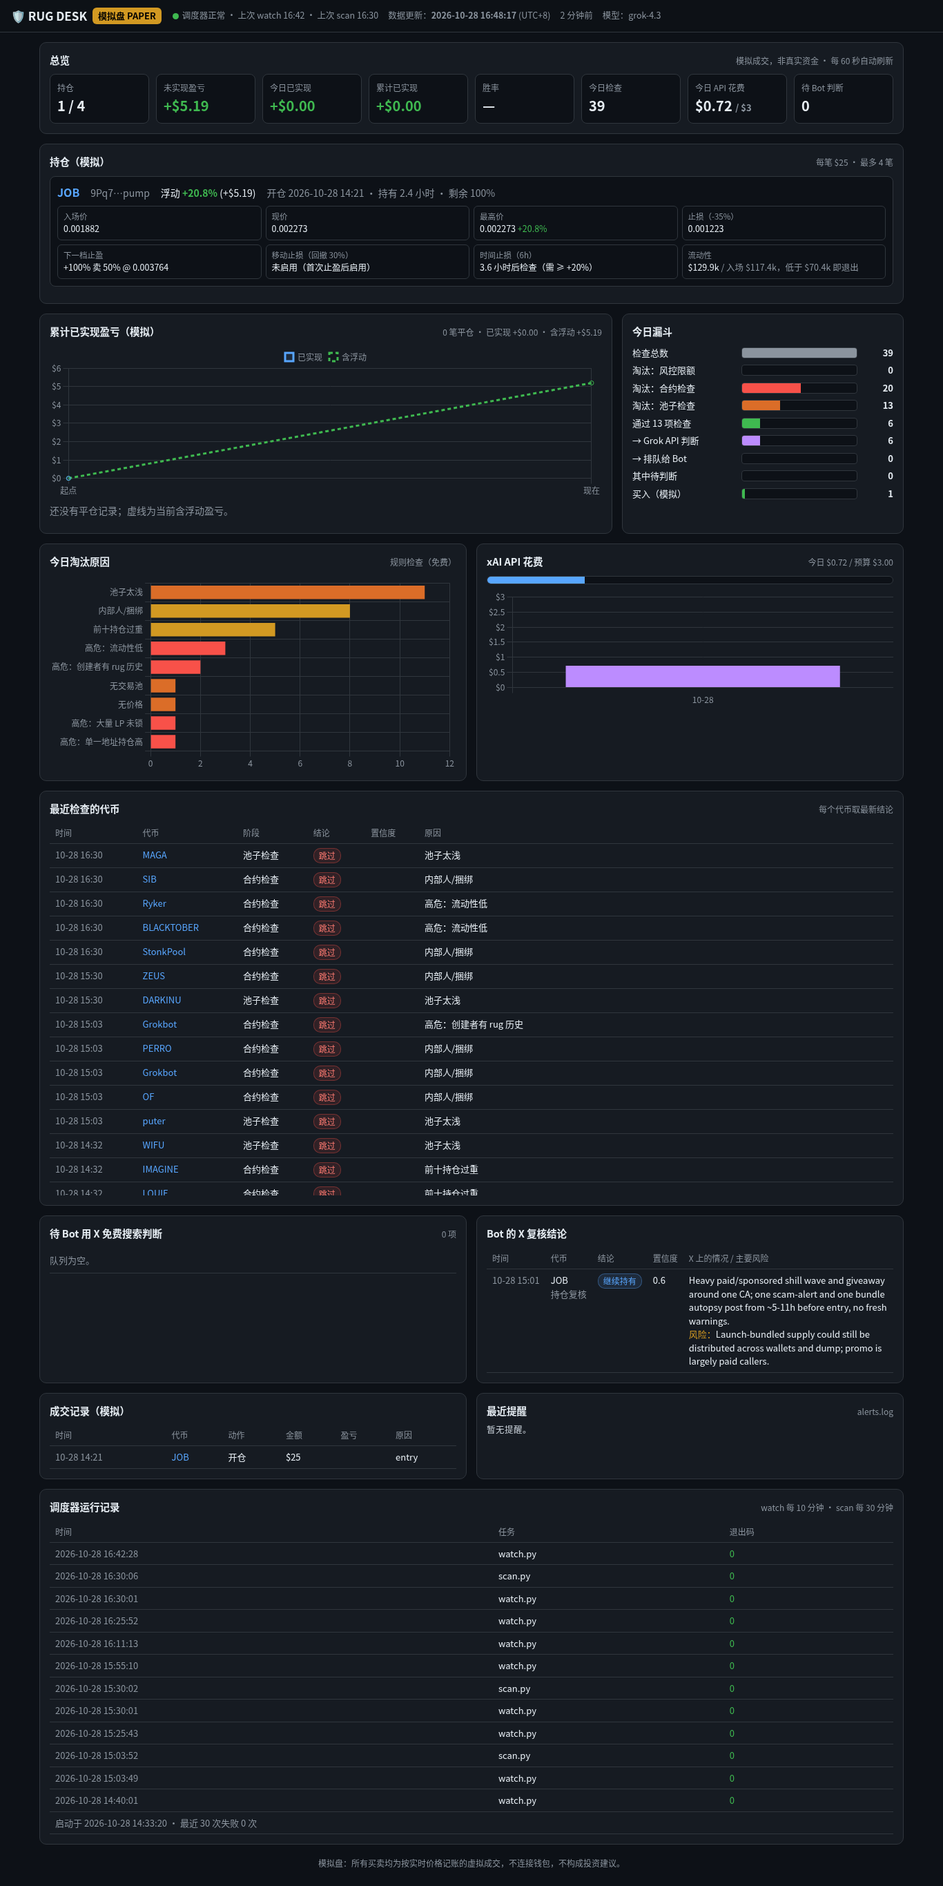
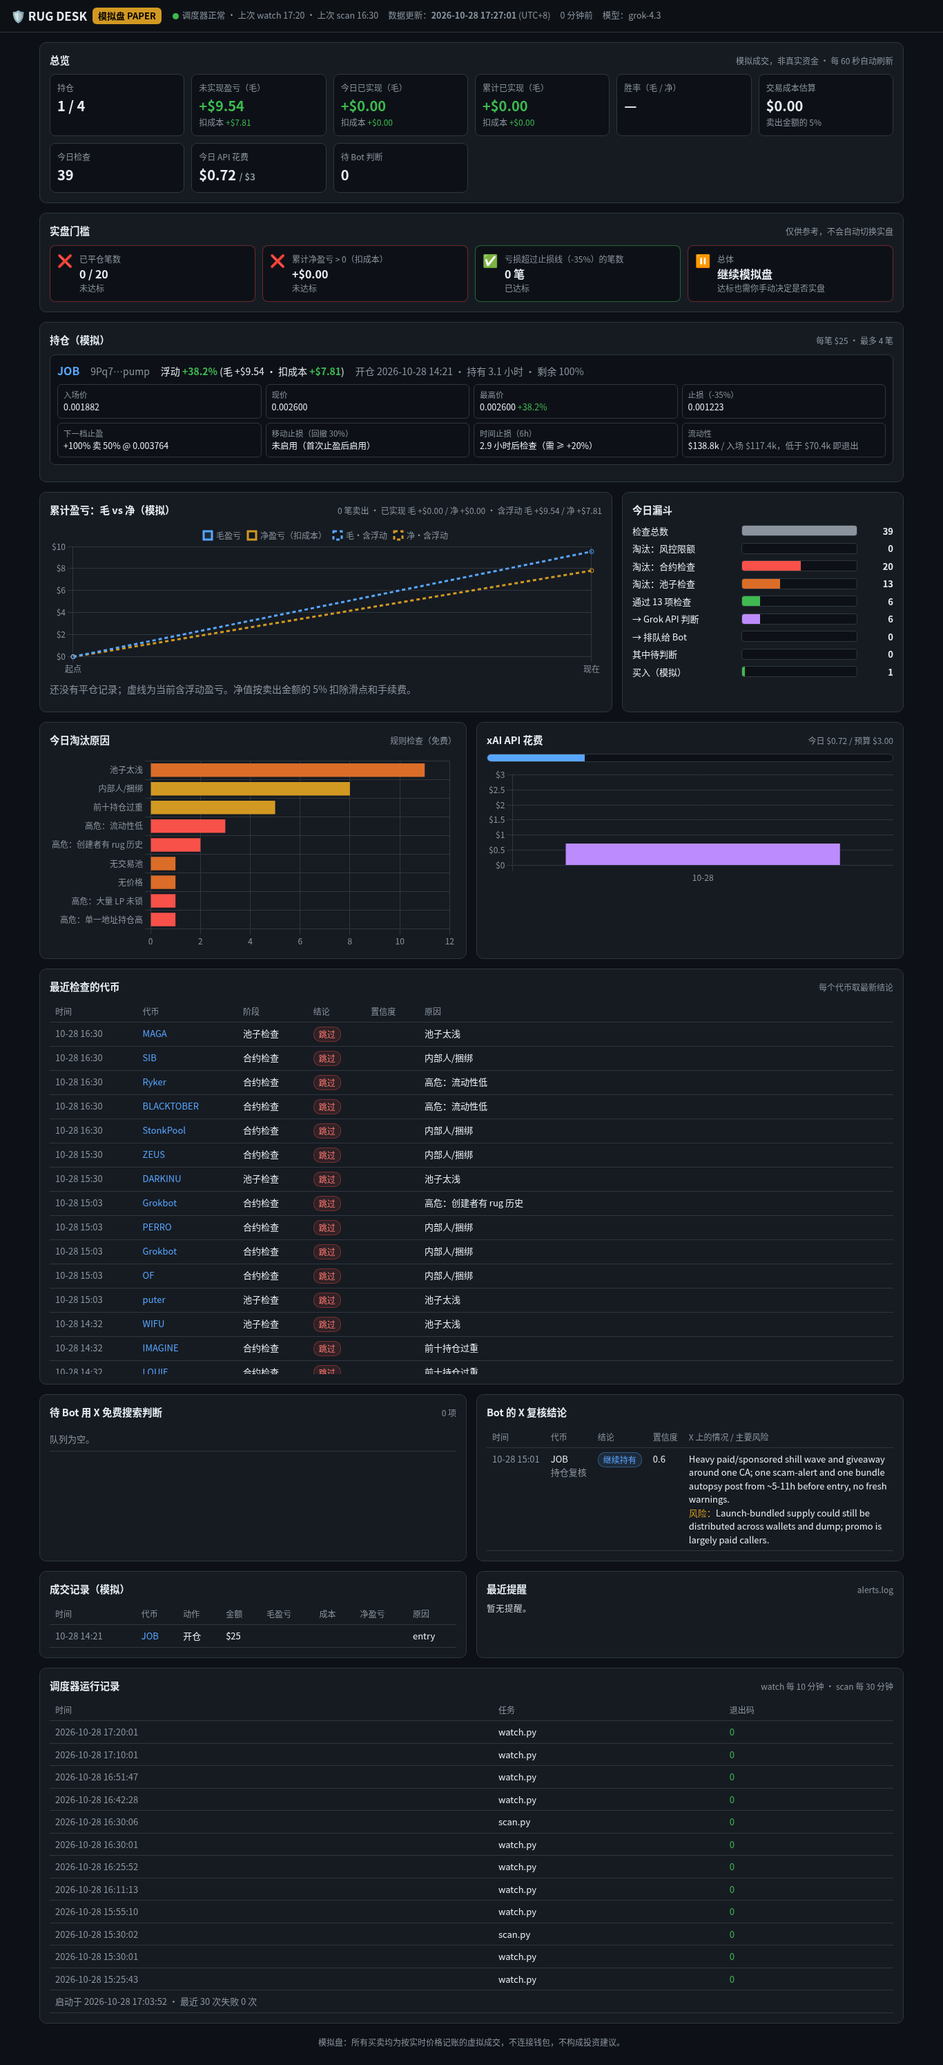
Paper trading-cost accounting (gross vs net), go-live panel, scheduler wall-clock fix

diff --git a/dashboard/site/index.html b/dashboard/site/index.html
@@ -22,7 +22,7 @@ main{max-width:1280px;margin:0 auto;padding:14px;display:grid;gap:14px;grid-temp
 .card h2 small{color:var(--mut);font-weight:400;font-size:12px}
 .s12{grid-column:span 12}.s8{grid-column:span 8}.s6{grid-column:span 6}.s4{grid-column:span 4}
 .scroll{max-height:540px;overflow:auto}.scroll th{position:sticky;top:0;background:var(--card)}
-.kpis{display:grid;grid-template-columns:repeat(auto-fit,minmax(130px,1fr));gap:10px}
+.kpis{display:grid;grid-template-columns:repeat(auto-fill,minmax(170px,1fr));gap:10px}
 .kpi{background:#0d1117;border:1px solid var(--line);border-radius:8px;padding:10px}
 .kpi .l{color:var(--mut);font-size:12px}.kpi .v{font-size:20px;font-weight:600;margin-top:2px}
 .pos{color:var(--g)}.neg{color:var(--r)}.mut{color:var(--mut)}.warn{color:var(--y)}
@@ -55,7 +55,12 @@ td.wrap{white-space:normal;min-width:220px;max-width:460px;word-break:break-word
 footer{color:var(--mut);font-size:12px;text-align:center;padding:4px 16px 24px}
 #err{display:none;background:rgba(248,81,73,.15);border:1px solid var(--r);color:#ffa198;padding:8px 12px;border-radius:8px}
 @media(max-width:900px){.s8,.s6,.s4{grid-column:span 12}.rules{grid-template-columns:repeat(2,1fr)}}
-@media(max-width:520px){header{position:static}main{padding:10px;gap:10px}.kpi .v{font-size:18px}.frow{grid-template-columns:118px 1fr 34px}}
+@media(max-width:520px){header{position:static}.kpis{grid-template-columns:1fr 1fr}main{padding:10px;gap:10px}.kpi .v{font-size:18px}.frow{grid-template-columns:118px 1fr 34px}}
+.gates{display:grid;grid-template-columns:repeat(auto-fit,minmax(220px,1fr));gap:10px}
+.gate{background:#0d1117;border:1px solid var(--line);border-radius:8px;padding:10px;display:flex;gap:10px;align-items:flex-start}
+.gate .ic{font-size:18px;line-height:1.2}.gate .l{color:var(--mut);font-size:12px}.gate .v{font-size:16px;font-weight:600}
+.gate.ok{border-color:rgba(63,185,80,.5)}.gate.no{border-color:rgba(248,81,73,.4)}
+.sub{color:var(--mut);font-size:12px;font-weight:400}
 </style>
 </head>
 <body>
@@ -77,12 +82,17 @@ footer{color:var(--mut);font-size:12px;text-align:center;padding:4px 16px 24px}
   </section>
 
   <section class="card s12">
+    <h2>实盘门槛 <small>仅供参考，不会自动切换实盘</small></h2>
+    <div class="gates" id="gates"></div>
+  </section>
+
+  <section class="card s12">
     <h2>持仓（模拟） <small id="poscount"></small></h2>
     <div id="positions"></div>
   </section>
 
   <section class="card s8">
-    <h2>累计已实现盈亏（模拟） <small id="pnlsum"></small></h2>
+    <h2>累计盈亏：毛 vs 净（模拟） <small id="pnlsum"></small></h2>
     <div class="chartbox"><canvas id="pnlChart"></canvas></div>
     <div id="pnlEmpty" class="empty" style="display:none">还没有平仓记录。</div>
   </section>
@@ -177,17 +187,31 @@ function render(d){
   if (!d.paper) $("err").style.display = "block", $("err").textContent = "注意：PAPER = False（实盘模式）";
 
   const unreal = d.positions.reduce((a,p) => a + (p.unrealized_usd || 0), 0);
+  const unrealNet = d.positions.reduce((a,p) => a + (p.unrealized_net_usd || 0), 0);
+  const gn = (g, n) => `<span class="${cls(g)}">${sgnUsd(g)}</span><div class="sub">扣成本 <span class="${cls(n)}">${sgnUsd(n)}</span></div>`;
   const f = d.funnel_today, c = d.config;
   $("kpis").innerHTML = [
     ["持仓", `${d.positions.length} / ${c.max_open}`],
-    ["未实现盈亏", `<span class="${cls(unreal)}">${sgnUsd(unreal)}</span>`],
-    ["今日已实现", `<span class="${cls(d.pnl.realized_today)}">${sgnUsd(d.pnl.realized_today)}</span>`],
-    ["累计已实现", `<span class="${cls(d.pnl.realized_total)}">${sgnUsd(d.pnl.realized_total)}</span>`],
-    ["胜率", d.pnl.closed_count ? `${d.pnl.wins}/${d.pnl.closed_count}` : "—"],
+    ["未实现盈亏（毛）", gn(unreal, unrealNet)],
+    ["今日已实现（毛）", gn(d.pnl.realized_today, d.pnl.realized_today_net)],
+    ["累计已实现（毛）", gn(d.pnl.realized_total, d.pnl.realized_total_net)],
+    ["胜率（毛 / 净）", d.pnl.closed_count ? `${d.pnl.wins}/${d.pnl.closed_count}<div class="sub">净 ${d.pnl.wins_net}/${d.pnl.closed_count}</div>` : "—"],
+    ["交易成本估算", `${usd(d.pnl.cost_total)}<div class="sub">卖出金额的 ${d.pnl.cost_pct}%</div>`],
     ["今日检查", f.checked],
     ["今日 API 花费", `${usd(d.api.today_usd)} <span class="mut" style="font-size:13px">/ ${usd(d.api.budget_usd,0)}</span>`],
     ["待 Bot 判断", d.queue.length],
   ].map(([l,v]) => `<div class="kpi"><div class="l">${l}</div><div class="v">${v}</div></div>`).join("");
+
+  // go-live gates (informational)
+  const g = d.go_live;
+  $("gates").innerHTML = [
+    [g.trades_met, "已平仓笔数", `${g.closed_trades} / ${g.min_trades}`],
+    [g.net_met, "累计净盈亏 > 0（扣成本）", sgnUsd(g.net_total)],
+    [g.beyond_stop_met, `亏损超过止损线（${g.stop_pct}%）的笔数`, `${g.beyond_stop} 笔`],
+  ].map(([ok,l,v]) => `<div class="gate ${ok ? "ok" : "no"}"><div class="ic">${ok ? "✅" : "❌"}</div><div><div class="l">${l}</div>
+    <div class="v">${v}</div><div class="sub">${ok ? "已达标" : "未达标"}</div></div></div>`).join("") +
+    `<div class="gate ${g.all_met ? "ok" : "no"}"><div class="ic">${g.all_met ? "🟢" : "⏸"}</div><div><div class="l">总体</div>
+    <div class="v">${g.all_met ? "三项均达标" : "继续模拟盘"}</div><div class="sub">达标也需你手动决定是否实盘</div></div></div>`;
 
   // positions
   $("poscount").textContent = `每笔 $${c.ticket_usd} · 最多 ${c.max_open} 笔`;
@@ -198,7 +222,7 @@ function render(d){
     return `<div class="poscard"><div class="poshead">
       <a class="sym" href="${esc(p.url)}" target="_blank" rel="noopener">${esc(p.symbol)}</a>
       <span class="mut">${short(p.mint)}</span>
-      <span>浮动 <b class="${cls(p.pct)}">${pct(p.pct)}</b> (${sgnUsd(p.unrealized_usd)})</span>
+      <span>浮动 <b class="${cls(p.pct)}">${pct(p.pct)}</b> (毛 ${sgnUsd(p.unrealized_usd)} · 扣成本 <b class="${cls(p.unrealized_net_usd)}">${sgnUsd(p.unrealized_net_usd)}</b>)</span>
       <span class="mut">开仓 ${esc(p.opened)} · 持有 ${p.held_hours} 小时 · 剩余 ${p.qty_left_pct}%</span>
       ${p.price_error ? `<span class="warn">价格获取失败</span>` : ""}</div>
       <div class="rules">
@@ -213,18 +237,18 @@ function render(d){
       </div></div>`;
   }).join("") : `<div class="empty">当前没有持仓。</div>`;
 
-  // pnl chart: realized after each close, plus a dashed "now incl. unrealized" point
-  const curve = d.pnl.curve, last = curve.length ? curve[curve.length-1].cum : 0;
-  $("pnlsum").textContent = `${d.pnl.closed_count} 笔平仓 · 已实现 ${sgnUsd(d.pnl.realized_total)} · 含浮动 ${sgnUsd(last + unreal)}`;
+  // pnl chart: gross and net realized after each sell leg, plus dashed "now incl. unrealized" points
+  const curve = d.pnl.curve, last = curve.length ? curve[curve.length-1].cum : 0, lastN = curve.length ? curve[curve.length-1].cum_net : 0;
+  $("pnlsum").textContent = `${d.pnl.closed_count} 笔卖出 · 已实现 毛 ${sgnUsd(d.pnl.realized_total)} / 净 ${sgnUsd(d.pnl.realized_total_net)} · 含浮动 毛 ${sgnUsd(last + unreal)} / 净 ${sgnUsd(lastN + unrealNet)}`;
   $("pnlEmpty").style.display = curve.length ? "none" : "block";
-  $("pnlEmpty").textContent = "还没有平仓记录；虚线为当前含浮动盈亏。";
-  const labels = ["起点", ...curve.map(x => x.time.slice(5)), "现在"];
+  $("pnlEmpty").textContent = `还没有平仓记录；虚线为当前含浮动盈亏。净值按卖出金额的 ${d.pnl.cost_pct}% 扣除滑点和手续费。`;
+  const labels = ["起点", ...curve.map(x => x.time.slice(5)), "现在"], pad = Array(curve.length).fill(null);
   chart("pnlChart", {type:"line", data:{labels, datasets:[
-      {label:"已实现", data:[0, ...curve.map(x => x.cum), null], borderColor:"#58a6ff", backgroundColor:"rgba(88,166,255,.12)", fill:true, tension:.2, pointRadius:3},
-      {label:"含浮动", data:[...Array(curve.length).fill(null), last, +(last + unreal).toFixed(2)], borderColor:unreal >= 0 ? "#3fb950" : "#f85149", borderDash:[5,4], pointRadius:3, spanGaps:true}]},
-    options:{maintainAspectRatio:false, plugins:{legend:{labels:{boxWidth:12}}, tooltip:{callbacks:{label:i => {
-        if (i.datasetIndex === 1) return `含浮动 ${sgnUsd(i.raw)}`; if (!i.dataIndex) return "0";
-        const x = curve[i.dataIndex-1]; return `${x.symbol} ${sgnUsd(x.pnl)} → 累计 ${sgnUsd(i.raw)}`; }}}},
+      {label:"毛盈亏", data:[0, ...curve.map(x => x.cum), null], borderColor:"#58a6ff", backgroundColor:"rgba(88,166,255,.10)", fill:true, tension:0, pointRadius:3},
+      {label:"净盈亏（扣成本）", data:[0, ...curve.map(x => x.cum_net), null], borderColor:"#d29922", tension:0, pointRadius:3},
+      {label:"毛·含浮动", data:[...pad, last, +(last + unreal).toFixed(2)], borderColor:"#58a6ff", borderDash:[5,4], pointRadius:3, spanGaps:true},
+      {label:"净·含浮动", data:[...pad, lastN, +(lastN + unrealNet).toFixed(2)], borderColor:"#d29922", borderDash:[5,4], pointRadius:3, spanGaps:true}]},
+    options:{maintainAspectRatio:false, plugins:{legend:{labels:{boxWidth:12}}, tooltip:{callbacks:{label:i => `${i.dataset.label} ${sgnUsd(i.raw)}`}}},
       scales:{y:{ticks:{callback:v => "$" + v}}}}});
 
   // funnel
@@ -276,9 +300,11 @@ function render(d){
     : `<tr><td class="empty">还没有 Bot 结论。</td></tr>`;
 
   // trades
-  $("trades").innerHTML = d.trades.length ? `<tr><th>时间</th><th>代币</th><th>动作</th><th>金额</th><th>盈亏</th><th>原因</th></tr>` +
+  $("trades").innerHTML = d.trades.length ? `<tr><th>时间</th><th>代币</th><th>动作</th><th>金额</th><th>毛盈亏</th><th>成本</th><th>净盈亏</th><th>原因</th></tr>` +
     d.trades.map(t => `<tr><td class="mut">${esc(t.time.slice(5))}</td><td><a href="https://dexscreener.com/solana/${esc(t.mint)}" target="_blank" rel="noopener">${esc(t.symbol)}</a></td>
-      <td>${esc(ACTION[t.action] || t.action)}</td><td>$${esc(t.usd)}</td><td class="${cls(+t.pnl)}">${t.action === "open" ? "" : sgnUsd(+t.pnl)}</td><td>${esc(t.reason)}</td></tr>`).join("")
+      <td>${esc(ACTION[t.action] || t.action)}</td><td>$${esc(t.usd)}</td><td class="${cls(+t.pnl)}">${t.action === "open" ? "" : sgnUsd(+t.pnl)}</td>
+      <td class="mut">${t.action === "open" ? "" : "$" + t.cost.toFixed(2)}</td>
+      <td class="${cls(t.net)}">${t.action === "open" ? "" : sgnUsd(t.net)}</td><td>${esc(t.reason)}</td></tr>`).join("")
     : `<tr><td class="empty">还没有成交。</td></tr>`;
 
   $("alerts").textContent = d.alerts.length ? d.alerts.join("\n") : "暂无提醒。";

diff --git a/dashboard/export_dashboard.py b/dashboard/export_dashboard.py
@@ -5,7 +5,7 @@ from collections import Counter, defaultdict
 
 DESK = os.path.dirname(os.path.dirname(os.path.abspath(__file__)))
 os.chdir(DESK); sys.path.insert(0, DESK)
-import book, xqueue
+import book, xqueue, pnl
 from config import (PAPER, MODEL, EXIT, FACTS, TICKET_USD, MAX_OPEN, MAX_ENTRIES_PER_DAY, DAILY_LOSS_HALT_USD,
                     MIN_CONFIDENCE, FRESH_MAX_AGE_HOURS, API_DAILY_BUDGET_USD)
 from desklog import rows, latest_per_mint, REVIEW_VERDICTS
@@ -92,6 +92,7 @@ def positions():
             "qty_left_pct": round(p["qty"] / p["qty0"] * 100, 1),
             "value_usd": round(p["qty"] * cur, 2) if cur else None,
             "unrealized_usd": round(p["qty"] * (cur - e), 2) if cur else None,
+            "unrealized_net_usd": round(p["qty"] * (cur - e) - pnl.unrealized_cost(p["qty"], cur), 2) if cur else None,
             "liq0": p["liq0"], "liq_now": liq, "price_error": err,
             "opened": time.strftime("%Y-%m-%d %H:%M", time.localtime(p["opened"])),
             "held_hours": round(held_h, 1),
@@ -107,13 +108,16 @@ def positions():
     return out
 
 
-# ---- trades + running paper pnl ----
-trades = book.trades()
-closed = [t for t in trades if t["action"] != "open"]
-cum, curve = 0.0, []
+# ---- trades + running paper pnl (gross and net of PAPER_COST_PCT, derived from trades.csv) ----
+trade_legs = pnl.legs()
+closed = [t for t in trade_legs if t["action"] != "open"]
+cum = cum_net = 0.0; curve = []
 for t in closed:
-    cum += float(t["pnl"]); curve.append({"time": t["time"], "pnl": float(t["pnl"]), "cum": round(cum, 2),
-                                          "symbol": t["symbol"], "reason": t["reason"]})
+    cum += t["gross"]; cum_net += t["net"]
+    curve.append({"time": t["time"], "pnl": t["gross"], "pnl_net": t["net"], "cost": t["cost"],
+                  "cum": round(cum, 2), "cum_net": round(cum_net, 2), "symbol": t["symbol"], "reason": t["reason"]})
+trades = [{k: t[k] for k in ("time", "mint", "symbol", "action", "usd", "pnl", "reason")} | {"cost": t["cost"], "net": t["net"]}
+          for t in trade_legs]
 
 # ---- checks ----
 allrows = rows()
@@ -171,8 +175,14 @@ data = {
                "exit": EXIT, "facts": FACTS},
     "scheduler": scheduler(),
     "positions": positions(),
-    "pnl": {"realized_total": round(cum, 2), "realized_today": round(book.today_pnl(), 2),
-            "closed_count": len(closed), "wins": sum(1 for t in closed if float(t["pnl"]) > 0), "curve": curve},
+    "pnl": {"cost_pct": pnl.PAPER_COST_PCT,
+            "realized_total": round(cum, 2), "realized_total_net": round(cum_net, 2),
+            "realized_today": pnl.realized(day)["gross"], "realized_today_net": pnl.realized(day)["net"],
+            "cost_total": pnl.realized()["cost"],
+            "closed_count": len(closed), "wins": sum(1 for t in closed if t["gross"] > 0),
+            "wins_net": sum(1 for t in closed if t["net"] > 0), "curve": curve,
+            "round_trips": pnl.round_trips()[-30:][::-1]},
+    "go_live": pnl.go_live(),
     "trades": trades[-50:][::-1],
     "funnel_today": funnel, "kill_reasons_today": kills.most_common(),
     "recent_checks": recent_checks,

diff --git a/pnl.py b/pnl.py
@@ -1,0 +1,61 @@
+# pnl.py  [desk] gross vs net (after PAPER_COST_PCT) P&L, computed from trades.csv. Reporting only:
+# book.py / watch.py triggers and the daily-loss halt still use gross numbers, as in the article.
+import time
+from config import PAPER_COST_PCT, EXIT, TICKET_USD
+import book
+
+
+def leg_cost(t: dict) -> float:
+    """cost of one trades.csv row: sell legs (partial/close) pay PAPER_COST_PCT of their notional."""
+    return 0.0 if t["action"] == "open" else float(t["usd"]) * PAPER_COST_PCT / 100
+
+
+def legs(trades=None) -> list[dict]:
+    """every trades.csv row + cost + net pnl (history untouched, derived on read)."""
+    out = []
+    for t in (trades if trades is not None else book.trades()):
+        c = leg_cost(t); g = float(t["pnl"])
+        out.append({**t, "gross": g, "cost": round(c, 4), "net": round(g - c, 4)})
+    return out
+
+
+def realized(day: str | None = None) -> dict:
+    ls = [l for l in legs() if l["action"] != "open" and (day is None or l["time"].startswith(day))]
+    g = sum(l["gross"] for l in ls); c = sum(l["cost"] for l in ls)
+    return {"gross": round(g, 2), "cost": round(c, 2), "net": round(g - c, 2), "legs": len(ls)}
+
+
+def unrealized_cost(qty: float, price: float) -> float:
+    """what selling the rest now would cost."""
+    return qty * price * PAPER_COST_PCT / 100
+
+
+def round_trips() -> list[dict]:
+    """closed positions (open ... close), with gross/net pnl and gross return on the entry ticket."""
+    open_, done = {}, []
+    for l in legs():
+        m = l["mint"]
+        if l["action"] == "open":
+            open_[m] = {"mint": m, "symbol": l["symbol"], "opened": l["time"], "ticket": float(l["usd"]) or TICKET_USD,
+                        "gross": 0.0, "cost": 0.0, "legs": 0}
+            continue
+        p = open_.setdefault(m, {"mint": m, "symbol": l["symbol"], "opened": None, "ticket": TICKET_USD,
+                                 "gross": 0.0, "cost": 0.0, "legs": 0})
+        p["gross"] += l["gross"]; p["cost"] += l["cost"]; p["legs"] += 1
+        if l["action"] == "close":
+            p.update(closed=l["time"], exit_reason=l["reason"], net=round(p["gross"] - p["cost"], 2),
+                     gross=round(p["gross"], 2), cost=round(p["cost"], 2),
+                     gross_pct=round(p["gross"] / p["ticket"] * 100, 1))
+            p["beyond_stop"] = p["gross_pct"] < EXIT["stop_pct"]
+            done.append(open_.pop(m))
+    return done
+
+
+def go_live(min_trades: int = 20) -> dict:
+    """informational go-live criteria (实盘门槛). Nothing reads this to trade."""
+    rt = round_trips(); net = realized()["net"]
+    beyond = sum(1 for r in rt if r["beyond_stop"])
+    return {"closed_trades": len(rt), "min_trades": min_trades, "trades_met": len(rt) >= min_trades,
+            "net_total": net, "net_met": net > 0,
+            "beyond_stop": beyond, "stop_pct": EXIT["stop_pct"], "beyond_stop_met": beyond == 0,
+            "all_met": len(rt) >= min_trades and net > 0 and beyond == 0}

diff --git a/report.py b/report.py
@@ -3,7 +3,7 @@
 import csv, os, time
 from collections import Counter
 from config import LOG, PAPER, API_DAILY_BUDGET_USD
-import book, xqueue
+import book, xqueue, pnl
 from desklog import latest_per_mint
 
 day = time.strftime("%Y-%m-%d")
@@ -36,13 +36,32 @@ if reviews:
     print(f"position reviews today: {sum(r['verdict'] == 'HOLD' for r in reviews)} HOLD, "
           f"{sum(r['verdict'] == 'EXIT_SUGGESTED' for r in reviews)} EXIT_SUGGESTED")
 print(f"bought: {len(buys)} | open now: {len(book.load())}")
-print(f"realized pnl today: ${book.today_pnl():+.2f}")
+r_day, r_all = pnl.realized(day), pnl.realized()
+print(f"realized pnl today: gross ${r_day['gross']:+.2f} | net ${r_day['net']:+.2f} "
+      f"(cost {pnl.PAPER_COST_PCT}% of sells: ${r_day['cost']:.2f})")
+print(f"realized pnl all time: gross ${r_all['gross']:+.2f} | net ${r_all['net']:+.2f}")
+unr_g = unr_c = 0.0
+for _m, _p in book.load().items():
+    try:
+        from market import pool
+        _px = (pool(_m) or {}).get("price") or 0
+        unr_g += _p["qty"] * (_px - _p["entry"]); unr_c += pnl.unrealized_cost(_p["qty"], _px)
+    except Exception:
+        pass
+if book.load():
+    print(f"open positions unrealized: gross ${unr_g:+.2f} | net ${unr_g - unr_c:+.2f}")
+gl = pnl.go_live()
+print(f"go-live gate: closed trades {gl['closed_trades']}/{gl['min_trades']} {'OK' if gl['trades_met'] else 'no'} | "
+      f"net total ${gl['net_total']:+.2f} {'OK' if gl['net_met'] else 'no'} | "
+      f"losses beyond stop ({gl['stop_pct']}%): {gl['beyond_stop']} {'OK' if gl['beyond_stop_met'] else 'no'}")
 print(f"xAI API spend today: ${xqueue.spent_today():.2f} of ${API_DAILY_BUDGET_USD:.2f} budget")
 if done:
-    print(f"green exits: {len(wins)}/{len(done)}")
-    best = max(done, key=lambda t: float(t["pnl"]))
-    worst = min(done, key=lambda t: float(t["pnl"]))
-    print(f"best: {best['symbol']} ${float(best['pnl']):+.2f} | worst: {worst['symbol']} ${float(worst['pnl']):+.2f}")
+    print(f"green exits: {len(wins)}/{len(done)} gross, "
+          f"{sum(1 for l in pnl.legs(done) if l['net'] > 0)}/{len(done)} net")
+    dl = [l for l in pnl.legs(done)]
+    best = max(dl, key=lambda t: t["gross"]); worst = min(dl, key=lambda t: t["gross"])
+    print(f"best: {best['symbol']} ${best['gross']:+.2f} (net ${best['net']:+.2f}) | "
+          f"worst: {worst['symbol']} ${worst['gross']:+.2f} (net ${worst['net']:+.2f})")
 if reasons:
     top, n = reasons.most_common(1)[0]
     print(f"most common kill: {top} ({n}x)")

diff --git a/config.py b/config.py
@@ -39,6 +39,8 @@ FRESH_MAX_AGE_HOURS = 6     # passed 13 checks and pool younger than this -> pai
                             # older (low urgency) -> x_queue.jsonl for the bot's free X search
 API_DAILY_BUDGET_USD = 3.0  # today's costs.csv total reaches this -> fresh tokens are queued too
 QUEUE = "x_queue.jsonl"
+PAPER_COST_PCT = 5.0        # [desk] round-trip slippage + fees estimate, % of each SELL leg's notional
+                            # (a partial take-profit bears its share). reporting only: never changes a trigger
 
 LOG = "checks.csv"
 POSITIONS = "positions.json"

diff --git a/README.md b/README.md
@@ -89,6 +89,14 @@ grok.py also refuses (SKIP) any answer where no X search actually ran. Every cal
 - DexScreener `pairCreatedAt` is the pool's age; for pump.fun tokens that graduated, that is the migration time, not the launch time.
 - Pump.fun bonding-curve pools have no `liquidity` on DexScreener -> always `thin_pool` (conservative, intended).
 
+## Trading-cost accounting (reporting only)
+`PAPER_COST_PCT = 5.0` in config.py: a round-trip slippage + fees estimate charged on each SELL leg's notional
+(trades.csv `usd` of every partial/close; a partial take-profit bears its share). `pnl.py` derives gross / cost / net from
+trades.csv on read (history untouched). Exit triggers and the daily-loss halt still use gross prices, unchanged.
+report.py and the dashboard show gross and net everywhere; open positions show net = gross minus the cost of selling now.
+Go-live panel (实盘门槛, informational): closed round trips >= 20, net total > 0, and no closed trade that lost more than
+the stop (-35% of the ticket, gross).
+
 ## Dashboard (observability page) - `dashboard/`
 Static site, no build step: `dashboard/site/index.html` (vanilla JS + Chart.js from jsDelivr) reads `dashboard/site/data.json`
 and refreshes every 60 s. Chinese UI, dark, mobile-friendly, marked 模拟盘 PAPER.
@@ -110,6 +118,7 @@ Page: branch `gh-pages` = `index.html` + `data.json` + `.nojekyll` (+ `CNAME`), 
 - Custom domain: put the domain on one line in `dashboard/CNAME` (e.g. `desk.example.com`), then at your DNS add
   `CNAME desk.example.com -> sanseng33.github.io` (apex: A records 185.199.108.153 / .109.153 / .110.153 / .111.153),
   set it under repo Settings -> Pages -> Custom domain, and tick "Enforce HTTPS" once the certificate is issued.
+- Live: https://sanseng33.github.io/coin-check/ (repo is public).
 - Private repos: GitHub Pages from a private repo needs a paid plan (Pro / Team / Enterprise). Access-restricted
   ("private") Pages, visible only to people with repo access, needs GitHub Enterprise Cloud; on Pro/Team the site is public
   even though the repo is private. The data is paper-only with no secrets, but it does show strategy, positions and costs.
